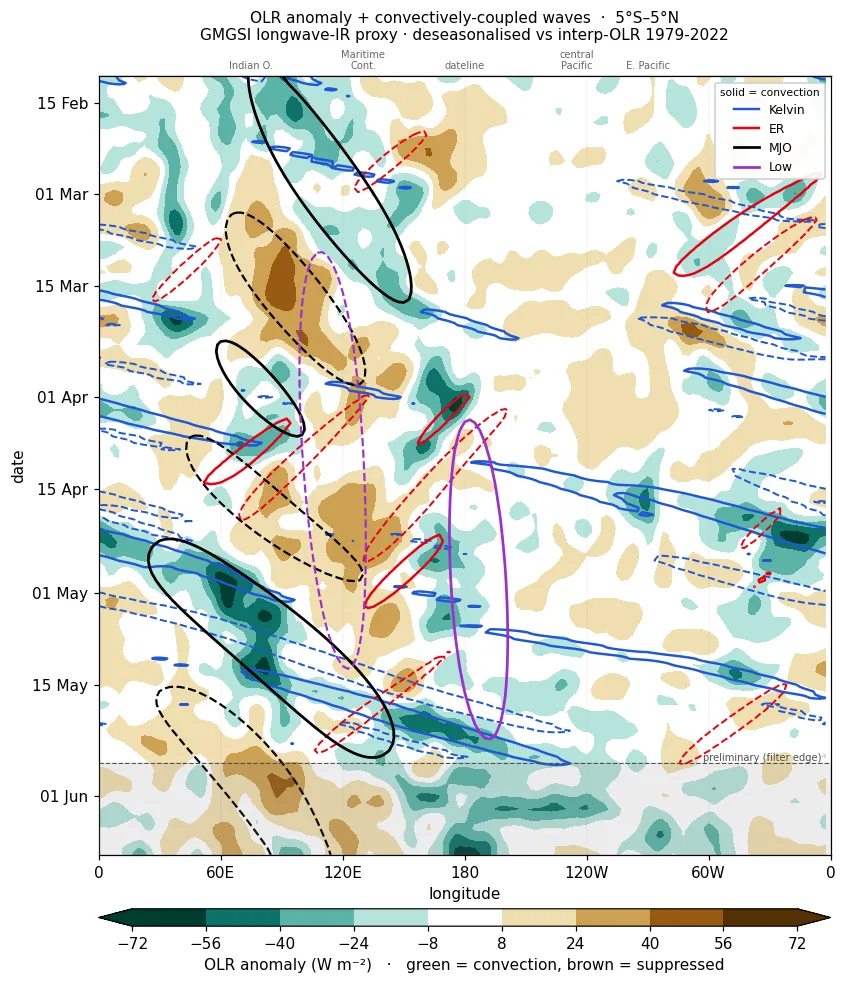
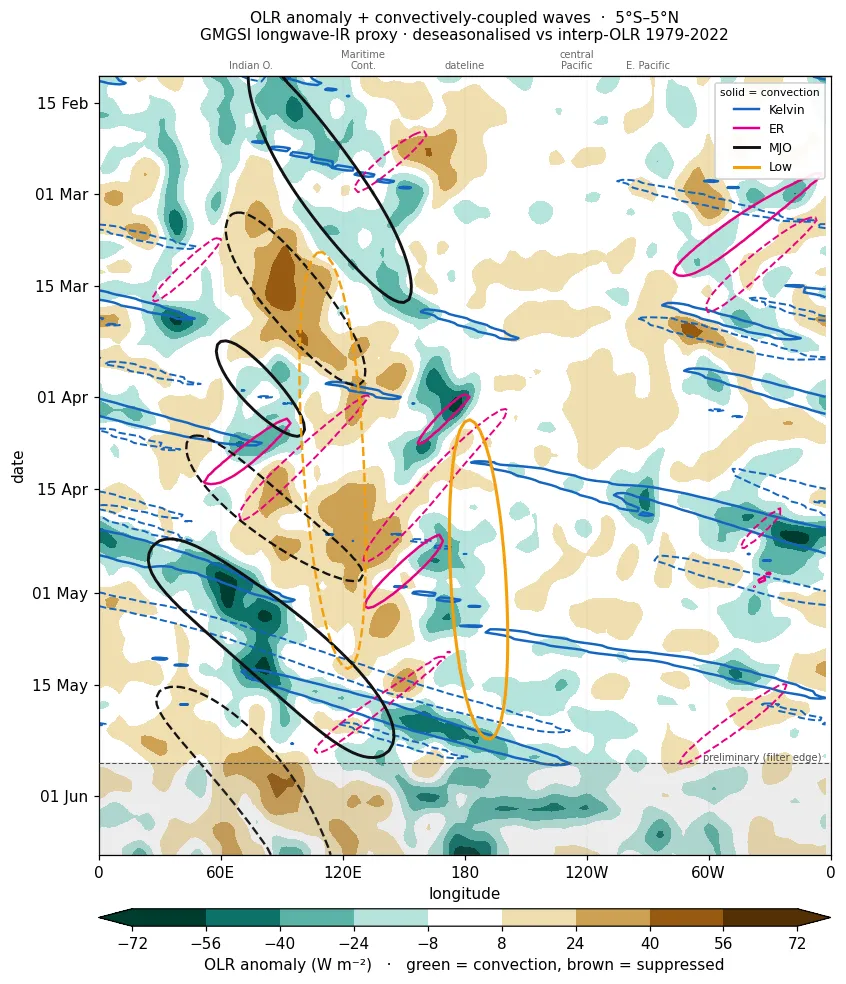
Unhide the OLR wave decomposition + give it our own palette
Brings the convectively-coupled-wave card back onto the overview page and re-enables its daily
Action. Recolours the wave contours away from Schreck's blue/red/black/purple to a distinct set
that still reads on the green-brown-white base: Kelvin blue, MJO black, equatorial Rossby magenta,
low-freq/ENSO amber. Blurb updated to match.

diff --git a/enso-analogs.html b/enso-analogs.html
@@ -259,7 +259,7 @@
         <h2>This Event vs. 1997, 2015 &amp; 2023</h2>
         <p>Niño-3.4 evolution (7-day running mean) through each event's development year and the next. Bold lines are <b>RONI</b> &mdash; the relative index (Niño-3.4 minus the 20&deg;S&ndash;20&deg;N tropical-mean anomaly), which removes the rising warming background so events decades apart are comparable; faint dotted lines are the raw <b>ONI</b> for reference. The current event is red. Note how 2015's record ONI shrinks toward 1997 once the background is removed.</p>
       </div>
-      <div class="img-wrap"><img src="assets/sst/events_nino34.webp?v=592b6830a719" alt="Niño-3.4 RONI vs ONI evolution: current event vs 1997/2015/2023" loading="lazy"></div>
+      <div class="img-wrap"><img src="assets/sst/events_nino34.webp?v=202606102356" alt="Niño-3.4 RONI vs ONI evolution: current event vs 1997/2015/2023" loading="lazy"></div>
       <div class="chart-card-footer"><span class="chart-sources">OISST v2.1 daily &middot; 7-day mean &middot; RONI = Niño-3.4 &minus; 20&deg;S&ndash;20&deg;N mean</span></div>
     </div>
 
@@ -269,7 +269,7 @@
         <h2>El Niño Flavor &mdash; Niño Regions vs. Analogs</h2>
         <p>Relative Niño-1+2 / 3 / 3.4 / 4 anomalies (7-day mean, each minus the 20&deg;S&ndash;20&deg;N tropical mean) at the same calendar day as the latest data, for the current event and the three analogs. Removing the tropical background makes the regions comparable across events; strong eastern (1+2, 3) relative to central (4) marks an East-Pacific-flavored event.</p>
       </div>
-      <div class="img-wrap"><img src="assets/sst/events_bars.webp?v=592b6830a719" alt="Relative Niño-region anomalies, current event vs analogs" loading="lazy"></div>
+      <div class="img-wrap"><img src="assets/sst/events_bars.webp?v=202606102356" alt="Relative Niño-region anomalies, current event vs analogs" loading="lazy"></div>
       <div class="chart-card-footer"><span class="chart-sources">OISST v2.1 daily &middot; 7-day mean &middot; relative to 20&deg;S&ndash;20&deg;N mean</span></div>
     </div>
 
@@ -279,7 +279,7 @@
         <h2>Matching-Phase SST Anomaly Maps</h2>
         <p>Relative SST anomaly &mdash; the area-weighted global-mean anomaly removed from each map &mdash; for the latest available week vs. the same calendar week in 1997, 2015 and 2023. Stripping the global mean removes the secular warming trend, so the ENSO spatial pattern is comparable across events that sat on very different baselines.</p>
       </div>
-      <div class="img-wrap"><img src="assets/sst/events_maps.webp?v=592b6830a719" alt="Matching-phase relative SST anomaly maps (global-mean removed)" loading="lazy"></div>
+      <div class="img-wrap"><img src="assets/sst/events_maps.webp?v=202606102356" alt="Matching-phase relative SST anomaly maps (global-mean removed)" loading="lazy"></div>
       <div class="chart-card-footer"><span class="chart-sources">OISST v2.1 daily &middot; 7-day mean &middot; global-mean removed</span></div>
     </div>
 
@@ -289,7 +289,7 @@
         <h2>Subsurface Heat Content vs. Analogs</h2>
         <p>Equatorial Pacific upper-ocean (0&ndash;300 m) temperature anomaly &mdash; a heat-content proxy that leads the surface &mdash; through each event's development year and the next, current (bold red) overlaid on 1997, 2015 and 2023. The subsurface warm reservoir is the fuel for El Ni&ntilde;o; watch whether the current build-up keeps pace with the analogs.</p>
       </div>
-      <div class="img-wrap"><img src="assets/sst/subsurface_events_hc.webp?v=592b6830a719" alt="Equatorial 0–300 m temperature-anomaly evolution: current vs 1997/2015/2023" loading="lazy"></div>
+      <div class="img-wrap"><img src="assets/sst/subsurface_events_hc.webp?v=202606102356" alt="Equatorial 0–300 m temperature-anomaly evolution: current vs 1997/2015/2023" loading="lazy"></div>
       <div class="chart-card-footer"><span class="chart-sources">NOAA/PMEL TAO/TRITON moorings &middot; anomaly vs 1991&ndash;2020 &middot; coverage varies by year</span></div>
     </div>
 
@@ -299,7 +299,7 @@
         <h2>Subsurface Heat Content vs. Analogs &mdash; De-trended</h2>
         <p>The same heat-content comparison with the 1991&ndash;2020 climate trend removed, so the four events sit on a common baseline. The net 0&ndash;300 m effect is modest &mdash; the subsurface warming and cooling trends largely cancel in the column average &mdash; but it eases the recent events (2023, current) down relative to 1997.</p>
       </div>
-      <div class="img-wrap"><img src="assets/sst/subsurface_events_hc_detrended.webp?v=592b6830a719" alt="Equatorial 0–300 m temperature-anomaly evolution, climate trend removed: current vs 1997/2015/2023" loading="lazy"></div>
+      <div class="img-wrap"><img src="assets/sst/subsurface_events_hc_detrended.webp?v=202606102356" alt="Equatorial 0–300 m temperature-anomaly evolution, climate trend removed: current vs 1997/2015/2023" loading="lazy"></div>
       <div class="chart-card-footer"><span class="chart-sources">NOAA/PMEL TAO/TRITON moorings &middot; de-trended 1991&ndash;2020 &middot; coverage varies by year</span></div>
     </div>
 
@@ -310,7 +310,7 @@
         <p>Equatorial depth&times;longitude temperature anomaly at the same phase (~the latest data week) of each event. The eastward-deepening warm anomaly along the thermocline is the classic El Ni&ntilde;o subsurface signature; comparing its depth and intensity against 1997/2015/2023 gauges how loaded the ocean is now.</p>
         <p><b>Note:</b> TAO mooring coverage varies by year (triangles mark moorings reporting), so 1997 and 2023 have missing longitudes.</p>
       </div>
-      <div class="img-wrap"><img src="assets/sst/subsurface_events_xsec.webp?v=592b6830a719" alt="Equatorial subsurface temperature-anomaly cross-sections: current vs 1997/2015/2023" loading="lazy"></div>
+      <div class="img-wrap"><img src="assets/sst/subsurface_events_xsec.webp?v=202606102356" alt="Equatorial subsurface temperature-anomaly cross-sections: current vs 1997/2015/2023" loading="lazy"></div>
       <div class="chart-card-footer"><span class="chart-sources">NOAA/PMEL TAO/TRITON moorings &middot; anomaly vs 1991&ndash;2020 &middot; 14-day mean &middot; coverage varies by year</span></div>
     </div>
 
@@ -321,7 +321,7 @@
         <p>The matching-phase cross-sections with the 1991&ndash;2020 climate trend removed. Because the trend has real depth&times;longitude structure &mdash; west-Pacific subsurface warming, eastern-thermocline cooling &mdash; de-trending reshapes the pattern more here than in the column-mean heat content above.</p>
         <p><b>Note:</b> TAO mooring coverage varies by year (triangles mark moorings reporting), so 1997 and 2023 have missing longitudes.</p>
       </div>
-      <div class="img-wrap"><img src="assets/sst/subsurface_events_xsec_detrended.webp?v=592b6830a719" alt="Equatorial subsurface temperature-anomaly cross-sections, climate trend removed: current vs 1997/2015/2023" loading="lazy"></div>
+      <div class="img-wrap"><img src="assets/sst/subsurface_events_xsec_detrended.webp?v=202606102356" alt="Equatorial subsurface temperature-anomaly cross-sections, climate trend removed: current vs 1997/2015/2023" loading="lazy"></div>
       <div class="chart-card-footer"><span class="chart-sources">NOAA/PMEL TAO/TRITON moorings &middot; de-trended 1991&ndash;2020 &middot; 14-day mean &middot; coverage varies by year</span></div>
     </div>
 
@@ -331,8 +331,8 @@
         <h2>Low-Level Wind vs. Analogs &mdash; 850 hPa Hovm&ouml;ller</h2>
         <p>Equatorial (5&deg;S&ndash;5&deg;N) 850 hPa zonal wind through the <b>developing year</b> (Jan&rarr;Nov of year 0) of each El Ni&ntilde;o, aligned by calendar so the current event sits beside its analogs at the same phase. Westerly anomalies (red) over the Indian Ocean&ndash;west Pacific push warm water east and sustain a developing event; the historical analogs show those westerlies expanding eastward through the year. Left: detrended anomaly (long-term trend removed). Right: absolute wind (easterly trades vs. westerly bursts). 5-day smoothed.</p>
       </div>
-      <div class="img-wrap"><img src="assets/sst/u850_analogs_anom.webp?v=592b6830a719" alt="850 hPa equatorial zonal-wind detrended-anomaly Hovmöllers: current 2026 vs 1982/1997/2015 developing years" loading="lazy"></div>
-      <div class="img-wrap"><img src="assets/sst/u850_analogs_abs.webp?v=592b6830a719" alt="850 hPa equatorial zonal-wind absolute Hovmöllers: current 2026 vs 1982/1997/2015 developing years" loading="lazy"></div>
+      <div class="img-wrap"><img src="assets/sst/u850_analogs_anom.webp?v=202606102356" alt="850 hPa equatorial zonal-wind detrended-anomaly Hovmöllers: current 2026 vs 1982/1997/2015 developing years" loading="lazy"></div>
+      <div class="img-wrap"><img src="assets/sst/u850_analogs_abs.webp?v=202606102356" alt="850 hPa equatorial zonal-wind absolute Hovmöllers: current 2026 vs 1982/1997/2015 developing years" loading="lazy"></div>
       <div class="chart-card-footer"><span class="chart-sources">ERA5 &mdash; WeatherBench2 1.5&deg; (1959&ndash;2023) + ARCO 0.25&deg; (current year) &middot; 5&deg;S&ndash;5&deg;N &middot; detrended vs day-of-year climatology &middot; updated daily</span></div>
     </div>
 

diff --git a/sst.html b/sst.html
@@ -321,7 +321,7 @@
         <p><b>How to read it:</b> Red bars (positive) lean El Ni&ntilde;o, blue bars (negative) lean La Ni&ntilde;a; the dashed lines mark the &plusmn;0.5&deg;C guides. This index is computed directly from OISST and shown in &deg;C &mdash; it captures the shape and timing of CPC's RONI but is not their standardized published value.</p>
       </div>
       <div class="img-wrap">
-        <img src="assets/sst/roni.webp?v=592b6830a719"
+        <img src="assets/sst/roni.webp?v=202606102356"
              alt="Relative Oceanic Niño Index time series" loading="lazy">
       </div>
       <div class="chart-card-footer">
@@ -338,7 +338,7 @@
         <p><b>What to look for:</b> When the red (Ni&ntilde;o-3.4) and green (tropical-mean) lines move together, the blue relative line stays flat &mdash; that's background warming, not ENSO. The blue line separating from zero is the genuine ENSO signal.</p>
       </div>
       <div class="img-wrap">
-        <img src="assets/sst/daily_indices.webp?v=592b6830a719"
+        <img src="assets/sst/daily_indices.webp?v=202606102356"
              alt="Daily Niño-3.4, tropical-mean, and relative SST indices" loading="lazy">
       </div>
       <div class="chart-card-footer">
@@ -355,22 +355,22 @@
         <p><b>How to read it:</b> The grey steps are the official bimonthly MEI.v2; the red line is our daily estimate, which leads the official value by roughly five weeks. The shaded band is the &plusmn;0.30 leave-one-year-out cross-validation error &mdash; the honest out-of-sample skill (the fit reproduces MEI.v2 at R&nbsp;=&nbsp;0.94). <b>Caveat:</b> the model is SST-weighted, so during a fast <i>SST-led</i> transition it can run ahead of MEI's slower atmospheric components &mdash; read a rapidly-rising live value as direction-and-timing rather than exact magnitude.</p>
       </div>
       <div class="img-wrap">
-        <img src="assets/sst/mei/mei_nowcast.webp?v=202606102050b6830a719"
+        <img src="assets/sst/mei/mei_nowcast.webp?v=202606102356"
              alt="Daily nowcast of the Multivariate ENSO Index version 2" loading="lazy">
       </div>
       <div class="img-wrap">
         <p class="img-label">Onset-year analogs &mdash; is the current year tracking the big El Ni&ntilde;os?</p>
-        <img src="assets/sst/mei/mei_analogs.webp?v=592b6830a719"
+        <img src="assets/sst/mei/mei_analogs.webp?v=202606102356"
              alt="MEI.v2 onset-year analogs: 1982, 1997, 2015, 2023 vs the current nowcast" loading="lazy">
       </div>
       <div class="img-wrap">
         <p class="img-label">Full record since 1980</p>
-        <img src="assets/sst/mei/mei_history.webp?v=592b6830a719"
+        <img src="assets/sst/mei/mei_history.webp?v=202606102356"
              alt="Full Multivariate ENSO Index v2 record since 1980 with the live nowcast tail" loading="lazy">
       </div>
       <div class="img-wrap">
         <p class="img-label">Out-of-sample skill &mdash; the 2015&ndash;16 El Ni&ntilde;o</p>
-        <img src="assets/sst/mei/mei_validation.webp?v=202606102050b6830a719"
+        <img src="assets/sst/mei/mei_validation.webp?v=202606102356"
              alt="Validation of the MEI.v2 nowcast over the 2015-16 El Niño" loading="lazy">
       </div>
       <div class="chart-card-footer">
@@ -405,9 +405,19 @@
       <div class="chart-card-footer"><span class="chart-sources">NOAA GMGSI longwave-IR global mosaic (GOES-E/W + Himawari + Meteosat) &middot; McIDAS brightness-temperature calibration &middot; hourly, rolling 72&nbsp;h</span></div>
     </div>
 
-    <!-- OLR WHEELER-KILADIS WAVE DECOMPOSITION — hidden for now; tool + Action retained.
-         Re-enable: restore this card, the assets/sst/olr_waves.webp <img id="olr-waves">,
-         and the cron schedule in .github/workflows/olr-waves.yml. -->
+    <!-- OLR WHEELER-KILADIS WAVE DECOMPOSITION -->
+    <div class="chart-card">
+      <div class="chart-card-header">
+        <h2>Convectively-Coupled Waves &mdash; OLR Decomposition</h2>
+        <p>Which tropical waves are driving the convection. The equatorial OLR anomaly (5&deg;S&ndash;5&deg;N, full globe) is bandpass-filtered in <b>wavenumber&ndash;frequency</b> space (Wheeler&ndash;Kiladis) to isolate each convectively-coupled mode, overlaid as contours (solid&nbsp;=&nbsp;enhanced convection, dashed&nbsp;=&nbsp;suppressed). The climatology is NOAA&rsquo;s interpolated-OLR (1979&ndash;2022); the live record is the GMGSI longwave-IR proxy.</p>
+        <p><b>How to read it:</b> <span style="color:#19975a">green&nbsp;=&nbsp;convection</span>, <span style="color:#9a6a18">brown&nbsp;=&nbsp;suppressed</span>. <b style="color:#1565c0">Kelvin</b> (fast eastward), <b>MJO</b> (slow eastward), <b style="color:#e6007e">equatorial&nbsp;Rossby</b> (westward), and the <b style="color:#d98200">low-frequency / ENSO</b> standing envelope. An eastward (top→bottom-right) tilt is a wave propagating into the Pacific; the standing amber pattern is the El&nbsp;Ni&ntilde;o-shifted warm pool. Newest day at the bottom; the shaded band is the filter-edge &ldquo;preliminary&rdquo; window.</p>
+      </div>
+      <div class="img-wrap" style="max-width:680px;margin:0 auto"><img id="olr-waves" data-src="assets/sst/olr_waves.webp" alt="Wheeler-Kiladis wave decomposition of equatorial OLR" loading="lazy"></div>
+      <div class="chart-card-footer">
+        <span class="chart-sources">GMGSI longwave-IR proxy &middot; Wheeler&ndash;Kiladis k&ndash;&omega; filtering (eq. depth 8&ndash;90&nbsp;m) &middot; climatology NOAA interp-OLR 1979&ndash;2022</span>
+        <span class="chart-updated">daily</span>
+      </div>
+    </div>
 
   </div>
 

diff --git a/enso-atmosphere.html b/enso-atmosphere.html
@@ -309,7 +309,7 @@
         <p>Forecast 10 m zonal-wind anomaly (5&deg;S&ndash;5&deg;N), longitude &times; forecast day, from the AIFS-ENS (AI) and ECMWF IFS-ENS (physics) ensemble means vs. the ERA5 1991&ndash;2020 climatology.</p>
         <p><b>What to look for:</b> Westerly (red) anomalies along the equator push warm water eastward and favor El Ni&ntilde;o development; easterly (blue) anomalies favor La Ni&ntilde;a. Agreement between the AI and physics ensembles raises confidence.</p>
       </div>
-      <div class="img-wrap"><img src="assets/sst/eq_wind_hovmoller.webp?v=592b6830a719" alt="Equatorial Pacific 10 m zonal-wind anomaly Hovmöller forecast (AIFS-ENS and IFS-ENS)" loading="lazy"></div>
+      <div class="img-wrap"><img src="assets/sst/eq_wind_hovmoller.webp?v=202606102356" alt="Equatorial Pacific 10 m zonal-wind anomaly Hovmöller forecast (AIFS-ENS and IFS-ENS)" loading="lazy"></div>
       <div class="chart-card-footer"><span class="chart-sources">ECMWF AIFS-ENS &amp; IFS-ENS (open data) &middot; anomaly vs ERA5 1991&ndash;2020 &middot; updated each 00/12Z cycle</span></div>
     </div>
 
@@ -333,7 +333,7 @@
         <p><b>How to read it:</b> <i>top</i> &mdash; this year's observed AAM (black) and the 15-day forecast (red) on the climatological annual cycle. The hemispheres are strongly out of phase (each peaks in its own winter), so much of the absolute rise/fall is just the season. <i>Bottom</i> &mdash; the anomaly (departure from the 1991&ndash;2020 normal), which removes the seasonal cycle, with a &ldquo;% of climatology&rdquo; axis.</p>
         <p><b>Why it matters for ENSO:</b> El&nbsp;Ni&ntilde;o shifts tropical convection east, strengthens the subtropical jets and weakens the trade winds &mdash; so the atmosphere holds <b>more</b> westerly momentum. AAM also ties to the MJO / Global Wind Oscillation and to <b>length of day</b> (more atmospheric momentum &rarr; the solid Earth spins fractionally slower).</p>
       </div>
-      <div class="img-wrap"><img src="assets/sst/aam.webp?v=592b6830a719" alt="Global and hemispheric atmospheric angular momentum: observed + AIFS-ENS forecast, absolute and anomaly" loading="lazy"></div>
+      <div class="img-wrap"><img src="assets/sst/aam.webp?v=202606102356" alt="Global and hemispheric atmospheric angular momentum: observed + AIFS-ENS forecast, absolute and anomaly" loading="lazy"></div>
       <div class="chart-card-footer"><span class="chart-sources">Forecast: ECMWF AIFS-ENS (open data, CC BY 4.0) &middot; climatology &amp; this-year observed: ERA5 (Copernicus C3S / ECMWF) &middot; updated daily</span></div>
     </div>
 
@@ -342,7 +342,7 @@
       <div class="chart-card-header">
         <h2>AAM Forecast Trend (run-to-run)</h2>
       </div>
-      <div class="img-wrap"><img src="assets/sst/aam_trend.webp?v=592b6830a719" alt="Run-to-run trend of AIFS-ENS ensemble-mean AAM anomaly forecasts, global and hemispheric" loading="lazy"></div>
+      <div class="img-wrap"><img src="assets/sst/aam_trend.webp?v=202606102356" alt="Run-to-run trend of AIFS-ENS ensemble-mean AAM anomaly forecasts, global and hemispheric" loading="lazy"></div>
       <div class="chart-card-footer"><span class="chart-sources">ECMWF AIFS-ENS (open data, CC BY 4.0) &middot; anomaly vs ERA5 1991&ndash;2020 (Copernicus C3S) &middot; archived each cycle</span></div>
     </div>
 
@@ -357,10 +357,10 @@
       </div>
       <iframe class="anim-embed torque" src="sst_anim.html?embed=1&amp;manifest=torque_manifest.json&amp;region=torque"
               title="AAM surface-torque anomaly animation (friction + mountain) over the AIFS-ENS forecast" loading="lazy"></iframe>
-      <div class="img-wrap"><img src="assets/sst/torque_timeseries.webp?v=592b6830a719" alt="Hemispheric AAM torque budget time series (friction, mountain, sum) for NH and SH" loading="lazy"></div>
-      <div class="img-wrap"><img src="assets/sst/torque_ranges.webp?v=592b6830a719" alt="Mountain-torque anomaly broken down by range (Himalaya, Rockies, Andes, Greenland, Antarctica, Alps)" loading="lazy"></div>
-      <div class="img-wrap"><img src="assets/sst/torque_seasonal.webp?v=592b6830a719" alt="Seasonal cycle of the three AAM surface-torque terms (friction, mountain, GWD) by latitude, ERA5 1991-2020" loading="lazy"></div>
-      <div class="img-wrap"><img src="assets/sst/torque_seasonal_ts.webp?v=592b6830a719" alt="Seasonal cycle of the integrated AAM torque terms (friction, mountain, GWD, sum) for Global/NH/SH, ERA5 1991-2020" loading="lazy"></div>
+      <div class="img-wrap"><img src="assets/sst/torque_timeseries.webp?v=202606102356" alt="Hemispheric AAM torque budget time series (friction, mountain, sum) for NH and SH" loading="lazy"></div>
+      <div class="img-wrap"><img src="assets/sst/torque_ranges.webp?v=202606102356" alt="Mountain-torque anomaly broken down by range (Himalaya, Rockies, Andes, Greenland, Antarctica, Alps)" loading="lazy"></div>
+      <div class="img-wrap"><img src="assets/sst/torque_seasonal.webp?v=202606102356" alt="Seasonal cycle of the three AAM surface-torque terms (friction, mountain, GWD) by latitude, ERA5 1991-2020" loading="lazy"></div>
+      <div class="img-wrap"><img src="assets/sst/torque_seasonal_ts.webp?v=202606102356" alt="Seasonal cycle of the integrated AAM torque terms (friction, mountain, GWD, sum) for Global/NH/SH, ERA5 1991-2020" loading="lazy"></div>
       <div class="chart-card-footer"><span class="chart-sources">ECMWF AIFS-ENS surface pressure (open data, CC BY 4.0) &middot; ERA5 orography + 1991–2020 torque climatology (Copernicus C3S, seasonal-cycle panel) &middot; daily means &middot; updated daily</span></div>
     </div>
 

diff --git a/enso-forecasts.html b/enso-forecasts.html
@@ -260,7 +260,7 @@
         <p>Ni&ntilde;o-3.4 SST-anomaly forecast plume from the GEM-NEMO component of Environment Canada's CanSIPS seasonal system (ensemble members 1&ndash;20), out ~11 months. <b>Traditional</b> (left) is the Ni&ntilde;o-3.4 anomaly vs the model's own 1991&ndash;2020 hindcast climatology; <b>relative</b> (right) subtracts the 20&deg;S&ndash;20&deg;N tropical-mean anomaly (RONI-style). Using the model's hindcast climatology removes its drift/bias.</p>
         <p>Bold red is the current issue's ensemble mean (thin red = members); dashed grey is <b>last month's</b> forecast (with its 10&ndash;90% spread) &mdash; where they overlap you can see how the outlook is trending month-to-month.</p>
       </div>
-      <div class="img-wrap"><img src="assets/sst/cansips_nino34.webp?v=592b6830a719" alt="CanSIPS GEM-NEMO Niño-3.4 forecast plume (traditional + relative), current vs previous issue" loading="lazy"></div>
+      <div class="img-wrap"><img src="assets/sst/cansips_nino34.webp?v=202606102356" alt="CanSIPS GEM-NEMO Niño-3.4 forecast plume (traditional + relative), current vs previous issue" loading="lazy"></div>
       <div class="chart-card-footer"><span class="chart-sources">ECCC CanSIPS GEM-NEMO (datamart) &middot; anomaly vs 1991&ndash;2020 model hindcast &middot; updated monthly</span></div>
     </div>
 
@@ -271,7 +271,7 @@
         <p>The Troup SOI (the standardized Tahiti&minus;Darwin sea-level-pressure difference) tracks the atmospheric side of ENSO. Observed values are from LongPaddock (Queensland Govt / BoM); the forecast is the Tahiti&minus;Darwin MSL from the combined AIFS-ENS + IFS-ENS ensemble (~100 members), bias-corrected to the recent observed level. Bold lines are the 30-day running SOI; the faint daily series and shaded 10&ndash;90% band show the noisier day-to-day spread.</p>
         <p><b>How to read it:</b> Sustained <b>negative</b> SOI (below &minus;7) is El Ni&ntilde;o-favorable; sustained <b>positive</b> (above +7) is La Ni&ntilde;a-favorable. A forecast that holds the 30-day SOI deep negative reinforces an El Ni&ntilde;o signal.</p>
       </div>
-      <div class="img-wrap"><img src="assets/sst/soi_forecast.webp?v=592b6830a719" alt="Southern Oscillation Index: observed (LongPaddock/BoM) plus AIFS-ENS/IFS-ENS forecast" loading="lazy"></div>
+      <div class="img-wrap"><img src="assets/sst/soi_forecast.webp?v=202606102356" alt="Southern Oscillation Index: observed (LongPaddock/BoM) plus AIFS-ENS/IFS-ENS forecast" loading="lazy"></div>
       <div class="chart-card-footer"><span class="chart-sources">LongPaddock daily SOI (BoM, 1933&ndash;1992 base) &middot; forecast: ECMWF AIFS-ENS + IFS-ENS MSL &middot; updated each 00/12Z cycle</span></div>
     </div>
 

diff --git a/scripts/sst/pages/overview.html b/scripts/sst/pages/overview.html
@@ -158,9 +158,19 @@
       <div class="chart-card-footer"><span class="chart-sources">NOAA GMGSI longwave-IR global mosaic (GOES-E/W + Himawari + Meteosat) &middot; McIDAS brightness-temperature calibration &middot; hourly, rolling 72&nbsp;h</span></div>
     </div>
 
-    <!-- OLR WHEELER-KILADIS WAVE DECOMPOSITION — hidden for now; tool + Action retained.
-         Re-enable: restore this card, the assets/sst/olr_waves.webp <img id="olr-waves">,
-         and the cron schedule in .github/workflows/olr-waves.yml. -->
+    <!-- OLR WHEELER-KILADIS WAVE DECOMPOSITION -->
+    <div class="chart-card">
+      <div class="chart-card-header">
+        <h2>Convectively-Coupled Waves &mdash; OLR Decomposition</h2>
+        <p>Which tropical waves are driving the convection. The equatorial OLR anomaly (5&deg;S&ndash;5&deg;N, full globe) is bandpass-filtered in <b>wavenumber&ndash;frequency</b> space (Wheeler&ndash;Kiladis) to isolate each convectively-coupled mode, overlaid as contours (solid&nbsp;=&nbsp;enhanced convection, dashed&nbsp;=&nbsp;suppressed). The climatology is NOAA&rsquo;s interpolated-OLR (1979&ndash;2022); the live record is the GMGSI longwave-IR proxy.</p>
+        <p><b>How to read it:</b> <span style="color:#19975a">green&nbsp;=&nbsp;convection</span>, <span style="color:#9a6a18">brown&nbsp;=&nbsp;suppressed</span>. <b style="color:#1565c0">Kelvin</b> (fast eastward), <b>MJO</b> (slow eastward), <b style="color:#e6007e">equatorial&nbsp;Rossby</b> (westward), and the <b style="color:#d98200">low-frequency / ENSO</b> standing envelope. An eastward (top→bottom-right) tilt is a wave propagating into the Pacific; the standing amber pattern is the El&nbsp;Ni&ntilde;o-shifted warm pool. Newest day at the bottom; the shaded band is the filter-edge &ldquo;preliminary&rdquo; window.</p>
+      </div>
+      <div class="img-wrap" style="max-width:680px;margin:0 auto"><img id="olr-waves" data-src="assets/sst/olr_waves.webp" alt="Wheeler-Kiladis wave decomposition of equatorial OLR" loading="lazy"></div>
+      <div class="chart-card-footer">
+        <span class="chart-sources">GMGSI longwave-IR proxy &middot; Wheeler&ndash;Kiladis k&ndash;&omega; filtering (eq. depth 8&ndash;90&nbsp;m) &middot; climatology NOAA interp-OLR 1979&ndash;2022</span>
+        <span class="chart-updated">daily</span>
+      </div>
+    </div>
 
   </div>
 

diff --git a/enso-subsurface.html b/enso-subsurface.html
@@ -264,7 +264,7 @@
               title="Equatorial Pacific subsurface temperature animation" loading="lazy"></iframe>
       <div class="chart-card-footer">
         <span class="chart-sources">NOAA/PMEL TAO/TRITON (DISDEL) &middot; base 1991&ndash;2020 &middot; 120-day animation, latest shown</span>
-        <span class="chart-updated" id="subsurface-updated">TAO 2026-06-08</span>
+        <span class="chart-updated" id="subsurface-updated">__TAO_DAY__</span>
       </div>
     </div>
 
@@ -279,7 +279,7 @@
               title="Equatorial Pacific subsurface anomaly, raw vs de-trended" loading="lazy"></iframe>
       <div class="chart-card-footer">
         <span class="chart-sources">NOAA/PMEL TAO/TRITON (DISDEL) &middot; trend fit 1991&ndash;2020 &middot; 120-day animation, latest shown</span>
-        <span class="chart-updated">TAO 2026-06-08</span>
+        <span class="chart-updated">__TAO_DAY__</span>
       </div>
     </div>
 

diff --git a/scripts/sst/olr_waves.py b/scripts/sst/olr_waves.py
@@ -41,13 +41,13 @@ DAY = 86400.0
 
 # Wave bands: (kmin, kmax) planetary zonal wavenumber (+ eastward, − westward),
 # (pmin, pmax) period days, (hmin, hmax) equivalent depth m (None = no dispersion bound).
-# colours follow Carl Schreck's NCICS "OLR with CFS forecasts" convention.
-# clev = ± W/m² contour level (LF/ER are broad, lower-amplitude fields → lower threshold).
+# our own contour palette (distinct from Schreck's blue/red/black/purple), chosen to read on the
+# green-brown-white base. clev = ± W/m² contour level (LF/ER are broad, lower-amplitude → lower).
 WAVES = {
-    "Kelvin": dict(k=(1, 14),   p=(2.5, 30), h=(8, 90),   n=None, color="#1f57d8", lw=1.6, clev=13),
-    "ER":     dict(k=(-10, -1), p=(9.7, 48), h=(8, 90),   n=1,    color="#e8000b", lw=1.6, clev=11),
-    "MJO":    dict(k=(1, 5),    p=(30, 96),  h=None,      n=None, color="#000000", lw=1.8, clev=13),
-    "LF":     dict(k=(-3, 3),   p=(120, 1e9), h=None,     n=None, color="#9b30d0", lw=1.8, clev=8,
+    "Kelvin": dict(k=(1, 14),   p=(2.5, 30), h=(8, 90),   n=None, color="#1565c0", lw=1.6, clev=13),
+    "ER":     dict(k=(-10, -1), p=(9.7, 48), h=(8, 90),   n=1,    color="#e6007e", lw=1.6, clev=11),
+    "MJO":    dict(k=(1, 5),    p=(30, 96),  h=None,      n=None, color="#111111", lw=1.9, clev=13),
+    "LF":     dict(k=(-3, 3),   p=(120, 1e9), h=None,     n=None, color="#f59e0b", lw=2.0, clev=8,
                    label="Low"),               # all periods >120 d incl. interannual ENSO standing envelope
 }
 
